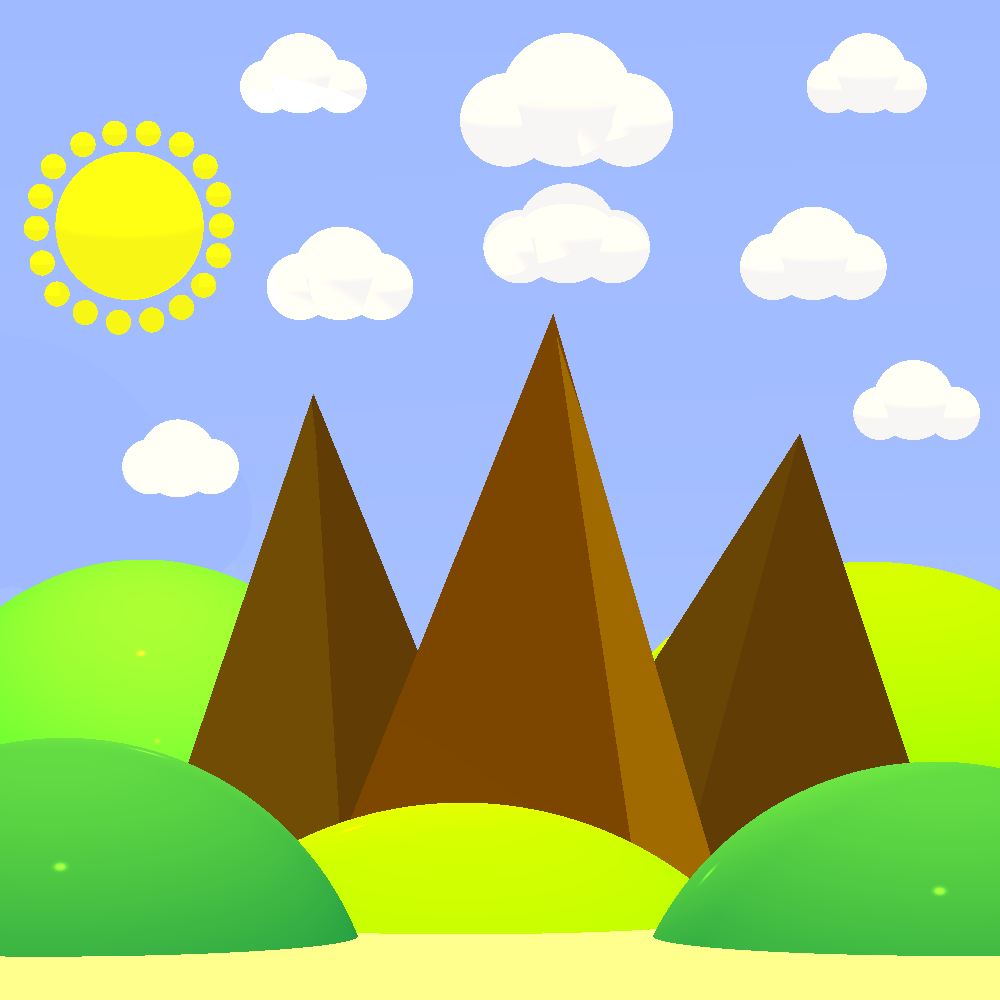
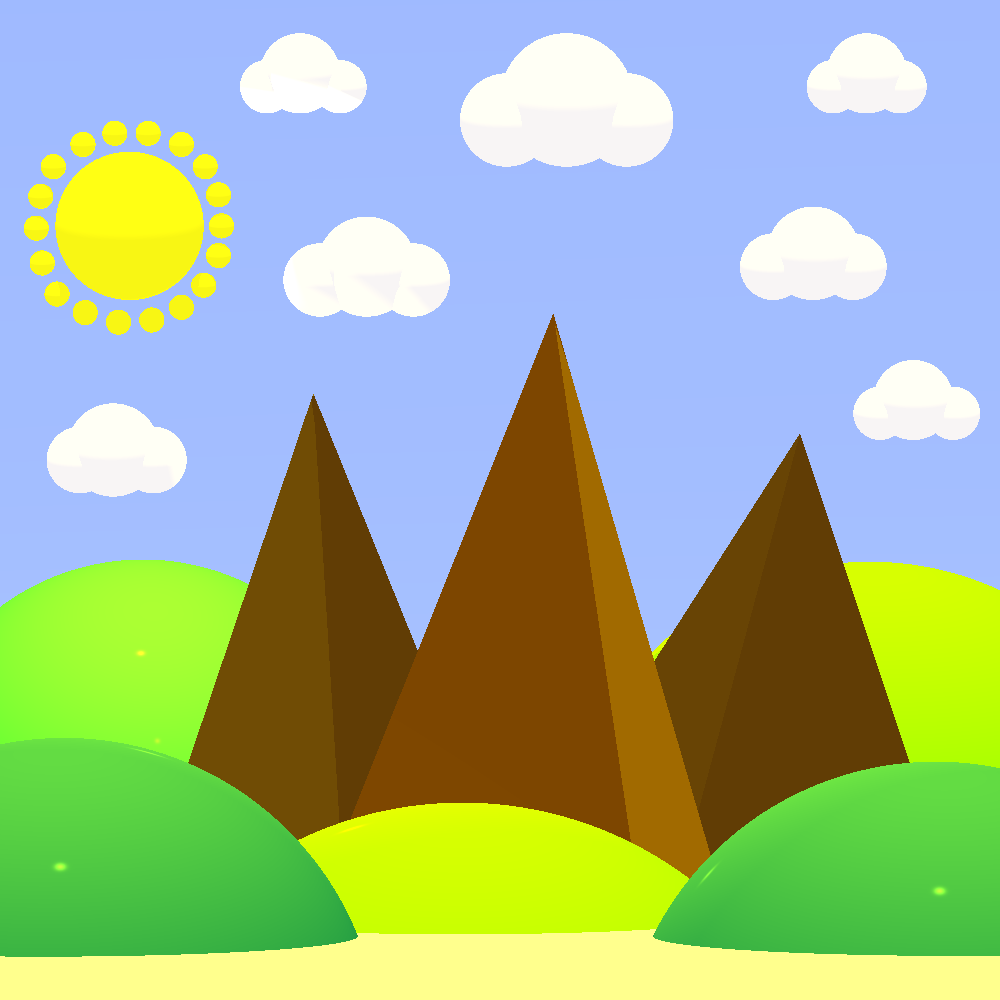
minip 1 -clouds_good

Changed region(s): [[0.248, 0.186, 0.651, 0.341], [0.031, 0.403, 0.248, 0.496]]

diff --git a/unitTests/renderer/minip1Test.java b/unitTests/renderer/minip1Test.java
@@ -174,11 +174,11 @@ public class minip1Test {
 
 
 
-                new Sphere(new Point(-58, 7.5, -200), 7d).setEmission(new Color(248,245,245))
+                new Sphere(new Point(-58, 7.5, 0), 7d).setEmission(new Color(248,245,245))
                         .setMaterial(new Material().setKd(0.5).setKs(0.6).setShininess(3000)),
-                new Sphere(new Point(-63, 6, -200), 5d).setEmission(new Color(248,245,245))
+                new Sphere(new Point(-63, 6, 0), 5d).setEmission(new Color(248,245,245))
                         .setMaterial(new Material().setKd(0.5).setKs(0.6).setShininess(3000)),
-                new Sphere(new Point(-52, 6, -200), 5d).setEmission(new Color(248,245,245))
+                new Sphere(new Point(-52, 6, 0), 5d).setEmission(new Color(248,245,245))
                         .setMaterial(new Material().setKd(0.5).setKs(0.6).setShininess(3000)),
 
                 new Sphere(new Point(-30, 64, 0), 6d).setEmission(new Color(248,245,245))
@@ -190,13 +190,13 @@ public class minip1Test {
 
 
 
-                new Sphere(new Point(-24, 34, 0), 7d).setEmission(new Color(248,245,245))
+              /*  new Sphere(new Point(-13, 17, 0), 7d).setEmission(new Color(248,245,245))
                         .setMaterial(new Material().setKd(0.5).setKs(0.6).setShininess(3000)),
-                new Sphere(new Point(-30, 32, 0), 5d).setEmission(new Color(248,245,245))
+                new Sphere(new Point(-19, 15, 0), 5d).setEmission(new Color(248,245,245))
                         .setMaterial(new Material().setKd(0.5).setKs(0.6).setShininess(3000)),
-                new Sphere(new Point(-18, 32, 0), 5d).setEmission(new Color(248,245,245))
+                new Sphere(new Point(-7, 15, 0), 5d).setEmission(new Color(248,245,245))
                         .setMaterial(new Material().setKd(0.5).setKs(0.6).setShininess(3000)),
-
+*/
                 //2-s
                 new Sphere(new Point(62, 15, 0), 6d).setEmission(new Color(248,245,245))
                         .setMaterial(new Material().setKd(0.5).setKs(0.6).setShininess(3000)),
@@ -205,11 +205,11 @@ public class minip1Test {
                 new Sphere(new Point(57, 13, 0), 4d).setEmission(new Color(248,245,245))
                         .setMaterial(new Material().setKd(0.5).setKs(0.6).setShininess(3000)),
 
-                new Sphere(new Point(10, 40, 0), 7.5d).setEmission(new Color(248,245,245))
+                new Sphere(new Point(-20, 35, 0), 7.5d).setEmission(new Color(248,245,245))
                         .setMaterial(new Material().setKd(0.5).setKs(0.6).setShininess(3000)),
-                new Sphere(new Point(3, 38, 0), 5.5d).setEmission(new Color(248,245,245))
+                new Sphere(new Point(-27, 33, 0), 5.5d).setEmission(new Color(248,245,245))
                         .setMaterial(new Material().setKd(0.5).setKs(0.6).setShininess(3000)),
-                new Sphere(new Point(17, 38, 0), 5.5d).setEmission(new Color(248,245,245))
+                new Sphere(new Point(-13, 33, 0), 5.5d).setEmission(new Color(248,245,245))
                         .setMaterial(new Material().setKd(0.5).setKs(0.6).setShininess(3000))
                 );
 
